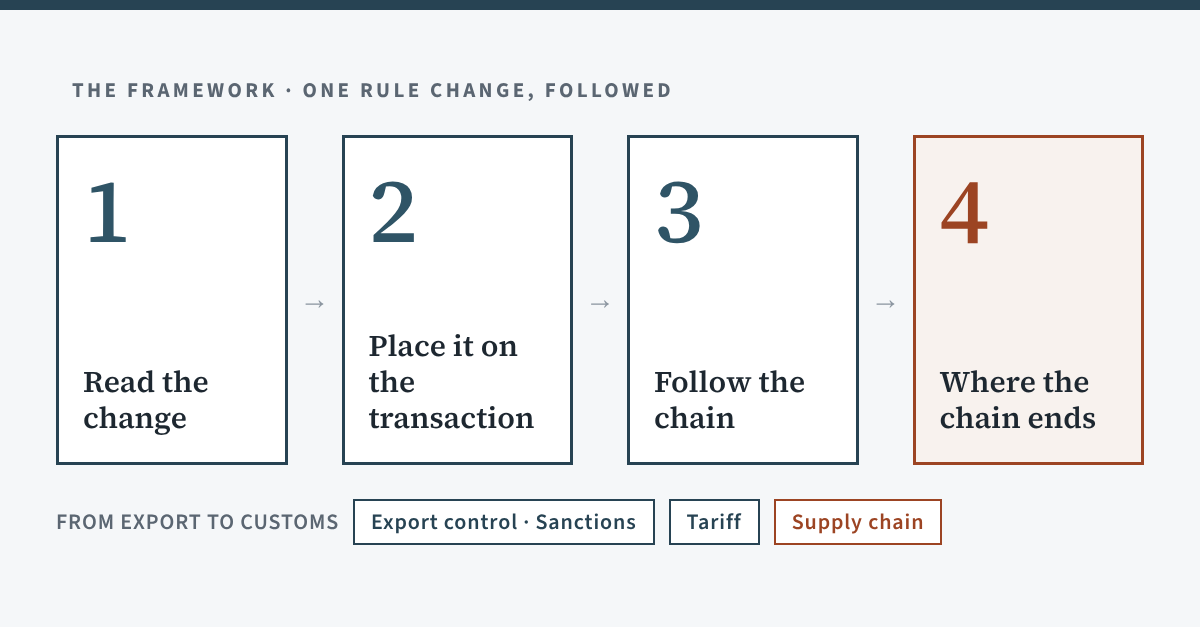
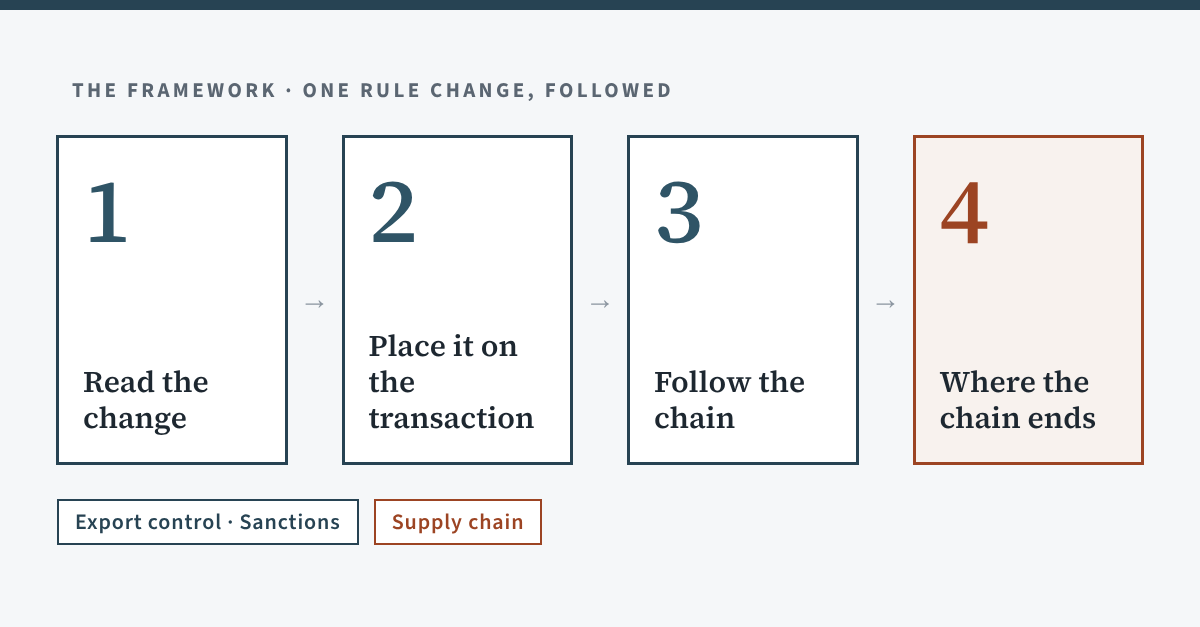
Add files via upload

Changed region(s): [[0.0308, 0.7879, 0.7708, 0.8788]]

diff --git a/review/index.html b/review/index.html
@@ -12,7 +12,7 @@ description: "The US Affiliates Rule, followed through one export route from Kor
   <div class="chero__shell">
     <p class="chero__id">US AFFILIATES RULE &middot; ONE EXPORT ROUTE</p>
     <h1 class="chero__title">The US Affiliates Rule on One Export Route: A Review</h1>
-    <p class="chero__subject">The US Affiliates Rule reaches recipients through who owns them. Its stay ends on 10 November 2026 in law; an extension to 10 January 2027 has been announced but not published. Here it is followed through one export route from Korea under both dates, from export to customs, to where it reaches the supply chain.</p>
+    <p class="chero__subject">The US Affiliates Rule reaches recipients through who owns them. Its stay ends on 10 November 2026 in law; an extension to 10 January 2027 has been announced but not published. Here it is followed through one export route from Korea under both dates, leg by leg, to where it reaches the supply chain.</p>
 
     <div class="ctrace">
       <span class="ctrace__cap">THE ROUTE IN THIS REVIEW</span>
@@ -38,7 +38,7 @@ description: "The US Affiliates Rule, followed through one export route from Kor
       <tbody>
         <tr><td>Rule</td><td>Expanded: an existing set of listings reaches further. Interim final rule.</td></tr>
         <tr><td>Whose rule</td><td>A country whose rule follows the item: the US. Added by the US alone, not agreed in a regime.</td></tr>
-        <tr><td>Status and dates</td><td>Adopted and stayed. <b>Fixed in law:</b> the stay ends on 9 November 2026 and the rule returns on 10 November 2026. <b>Announced:</b> on 23 September 2026 the US and China agreed to extend the Busan arrangement to 10 January 2027, expected to carry the stay with it. No Federal Register notice of the extension found as of 1 October 2026. No transition licence.</td></tr>
+        <tr><td>Status and dates</td><td>Adopted and stayed. <b>Fixed in law:</b> the stay ends on 9 November 2026 and the rule returns on 10 November 2026. <b>Announced:</b> on 23 September 2026 the US and China agreed to extend the Busan arrangement to 10 January 2027, expected to carry the stay with it. No Federal Register notice of the extension found as of 1 October 2026.</td></tr>
       </tbody>
     </table>
 
@@ -69,17 +69,17 @@ description: "The US Affiliates Rule, followed through one export route from Kor
       <tbody>
         <tr><td>Item</td><td>A part made for semiconductor manufacturing equipment, made in Korea. US-origin content is above the de minimis level, so the part is subject to the EAR.</td></tr>
         <tr><td>Parties</td><td>A Korean exporter. Company A is on the Entity List, needs a licence for all items subject to the EAR, and has a presumption of denial; it owns 35% of C. Company B is on the Entity List, needs a licence for items on the CCL, and is reviewed case by case; it owns 15% of C. C owns 50% of D. Neither C nor D is listed. <b>What can move:</b> a stake in C or D, or the listing of A, B or another shareholder.</td></tr>
-        <tr><td>Route and channel</td><td>Leg 1: Korea to Country X, to C as distributor. Leg 2: Country X to Country Y, to D as end user. Goods only; no technology moves. FCA Korea: the buyer bears import duty.</td></tr>
+        <tr><td>Route and channel</td><td>Leg 1: Korea to Country X, to C as distributor. Leg 2: Country X to Country Y, to D as end user. Goods only; no technology moves.</td></tr>
         <tr><td>Timing</td><td>Order placed in October 2026. Shipment planned for December 2026. Payment due in February 2027. Read under two dates: 10 November 2026 (fixed in law) and 10 January 2027 (announced).</td></tr>
       </tbody>
     </table>
 
     <p class="csub">Where it lands</p>
     <table class="cgap">
-      <thead><tr><th>Leg</th><th>Export</th><th>Customs</th></tr></thead>
+      <thead><tr><th>Leg</th><th>Point</th><th>Where the line lands</th></tr></thead>
       <tbody>
-        <tr><td>Leg 1: Korea to X</td><td><b>Lands here.</b> C is inside: A and B together own 50%. The exporter knows D is the end user, so D is read here too.</td><td></td></tr>
-        <tr><td>Leg 2: X to Y</td><td><b>Lands here,</b> read by C as reexporter. D is inside: C owns 50%.</td><td></td></tr>
+        <tr><td>Leg 1: Korea to X</td><td>Export, read by the Korean exporter</td><td><b>Lands here.</b> C is inside: A and B together own 50%. The exporter knows D is the end user, so D is read here too.</td></tr>
+        <tr><td>Leg 2: X to Y</td><td>Reexport, read by C</td><td><b>Lands here.</b> D is inside: C owns 50%.</td></tr>
       </tbody>
     </table>
 
@@ -108,7 +108,6 @@ description: "The US Affiliates Rule, followed through one export route from Kor
       <tbody>
         <tr><td>OFAC sanctions, 50% rule</td><td>US</td><td>Same fact, two lists: the same A, B, C, D chain, read against the SDN List. Assumed: no party is designated.</td></tr>
         <tr><td>Strategic items control (Foreign Trade Act, Art. 19)</td><td>Korea</td><td>Cumulative: a Korean licence does not clear BIS, and a BIS licence does not clear Korea. Korea has no ownership test of its own, so for C and D the relation is none.</td></tr>
-        <tr><td>Tariff, HS 8486.90</td><td>Countries X and Y</td><td>Customs. Not touched by this change, and read only if the part leaves. Duty free where X and Y apply the ITA; otherwise the importing country&rsquo;s schedule. Origin: Korea.</td></tr>
       </tbody>
     </table>
 
@@ -126,7 +125,7 @@ description: "The US Affiliates Rule, followed through one export route from Kor
       <tbody>
         <tr><td>Back to the contract</td><td>The order was taken in October 2026, before either date. Assumed: no clause lets the exporter suspend for a new licence requirement, so the risk of delay sits with the exporter.</td></tr>
         <tr><td>Payment</td><td>Due in February 2027, after both dates. A bank can stop it on its own screening, and ownership is read again at that point.</td></tr>
-        <tr><td>Forward to customs</td><td>If the part cannot leave, no customs step is reached; the chain stops at export.</td></tr>
+        <tr><td>Forward to the next leg</td><td>If the part cannot leave Korea, Leg 2 never happens; the chain stops at the first export.</td></tr>
       </tbody>
     </table>
   </div>
@@ -144,10 +143,9 @@ description: "The US Affiliates Rule, followed through one export route from Kor
         <tr><td>Date exposure</td><td><b>Plan on 10 November:</b> the December shipment is held now; if the extension is published, two months of sales were held for nothing. <b>Plan on 10 January:</b> if no notice is published, the December shipment leaves without a required licence. The fixed date is the safer plan; the wrong guess costs sales on one side and a violation on the other.</td><td>Time &middot; Foregone</td></tr>
         <tr><td>Response</td><td>Ship before 10 November, while the stay holds: lawful, but it moves the timing in Step 2 and should be recorded. Ship to D through another consignee: D is still a party, and it starts to look like circumvention.</td><td>Labour &middot; Time</td></tr>
         <tr><td>Counterparties</td><td>C, D, and every entity either owns 50% or more. A substitute customer meets the same ownership test.</td><td>Foregone &middot; Time</td></tr>
-        <tr><td>Cost</td><td>No duty change.</td><td>Cost: none</td></tr>
       </tbody>
     </table>
-    <div class="cbody"><p>Under either date the payment falls inside, so the uncertainty decides how much waits and for how long, not whether the deal is caught. If D is a core customer, every open order to D waits, and the chain ends in lost sales rather than in duty.</p></div>
+    <div class="cbody"><p>Under either date the payment falls inside, so the uncertainty decides how much waits and for how long, not whether the deal is caught. If D is a core customer, every open order to D waits, and the chain ends in lost sales.</p></div>
   </div>
 </section>
 
@@ -157,7 +155,7 @@ description: "The US Affiliates Rule, followed through one export route from Kor
       <tbody>
         <tr>
           <th>Sources</th>
-          <td>US BIS Affiliates Rule IFR (RIN 0694-AK11; Federal Register 2025-19001), Application example 1: Supp. No. 4 to Part 744, introductory text; &sect;&sect; 744.11, 744.21; &sect; 748.5; Red Flag 29, Supp. No. 3 to Part 732. BIS, one-year suspension of the Affiliates Rule (Federal Register 2025-19846), stayed until 9 November 2026. US Treasury announcement, 23 September 2026, extending the Busan arrangement to 10 January 2027 (reported by Reuters). &nbsp;OFAC, Revised Guidance on Entity Property and Interests (50 percent rule). &nbsp;Korea, Foreign Trade Act, Article 19 (strategic items; Article 19(3) catch-all), and the Public Notice on Export and Import of Strategic Items. &nbsp;Harmonized System, heading 84.86. &nbsp;WTO Information Technology Agreement.</td>
+          <td>US BIS Affiliates Rule IFR (RIN 0694-AK11; Federal Register 2025-19001), Application example 1: Supp. No. 4 to Part 744, introductory text; &sect;&sect; 744.11, 744.21; &sect; 748.5; Red Flag 29, Supp. No. 3 to Part 732. BIS, one-year suspension of the Affiliates Rule (Federal Register 2025-19846), stayed until 9 November 2026. US Treasury announcement, 23 September 2026, extending the Busan arrangement to 10 January 2027 (reported by Reuters). &nbsp;OFAC, Revised Guidance on Entity Property and Interests (50 percent rule). &nbsp;Korea, Foreign Trade Act, Article 19 (strategic items; Article 19(3) catch-all), and the Public Notice on Export and Import of Strategic Items.</td>
         </tr>
       </tbody>
     </table>

diff --git a/index.html b/index.html
@@ -1,7 +1,7 @@
 ---
 layout: default
 title: "Where the Rules Meet: A Compliance Impact Framework"
-description: "A rule changes, or the date it applies moves. Follow it through one transaction, from export to customs, to where it reaches the supply chain."
+description: "A rule changes, or the date it applies moves. Follow it through one transaction, leg by leg, to where it reaches the supply chain."
 permalink: /
 ---
 
@@ -11,8 +11,7 @@ permalink: /
     <div class="cov-block cov-lede">
       <span class="cov-eyebrow">THE FRAMEWORK</span>
       <h1 class="cov-title">Where the Rules Meet: A Compliance Impact Framework</h1>
-      <p class="cov-standfirst">A rule changes, or the date it applies moves. Follow it through one transaction, from export to customs, to where it reaches the supply chain.</p>
-      <p class="cov-standfirst">Reads export controls and sanctions at export, the tariff basics at customs, and the supply chain on both sides of the firm. Not covered: duty calculation, valuation, customs procedures, import-country regulation, or how a firm runs its compliance programme.</p>
+      <p class="cov-standfirst">A rule changes, or the date it applies moves. Follow it through one transaction, leg by leg, to where it reaches the supply chain.</p>
       <p class="cov-standfirst"><a href="{{ '/review/' | relative_url }}">See a review: the US Affiliates Rule on one export route, with the date still moving &rarr;</a></p>
     </div>
 
@@ -35,15 +34,15 @@ permalink: /
       <div class="cov-mech__item">
         <p class="cov-mech__num">STEP 3</p>
         <p class="cov-mech__name">Follow the chain</p>
-        <p class="cov-mech__note">What it meets at export and at customs, and how the rules relate.</p>
+        <p class="cov-mech__note">Which export controls and sanctions it meets, and how they relate.</p>
         <p class="cov-mech__shape">what is read &middot; rules met &middot; just outside &middot; relation &middot; timeline</p>
       </div>
 
       <div class="cov-mech__item cov-mech__item--soft">
         <p class="cov-mech__num">STEP 4</p>
         <p class="cov-mech__name">Where the chain ends</p>
-        <p class="cov-mech__note">The supply chain: what waits, what is lost, what it costs, and what the response changes.</p>
-        <p class="cov-mech__shape">time &middot; labour &middot; foregone &middot; cost &middot; response &rarr; Step 2</p>
+        <p class="cov-mech__note">The supply chain: what waits, what is lost, and what the response changes.</p>
+        <p class="cov-mech__shape">time &middot; labour &middot; foregone &middot; response &rarr; Step 2</p>
       </div>
 
     </div>
@@ -78,7 +77,6 @@ permalink: /
         <tr><td>Licence terms</td><td>Is a licence required, under what review policy, and which licence exceptions remain?</td></tr>
       </tbody>
     </table>
-    <div class="cbody"><p>Mark a boundary unchanged where it did not move. What stayed still shows what changed.</p></div>
   </div>
 </section>
 
@@ -100,13 +98,14 @@ permalink: /
 
     <p class="csub">Where it lands</p>
     <table class="cgap">
-      <thead><tr><th>Point</th><th>What is read</th><th>Read by</th></tr></thead>
+      <thead><tr><th>Point</th><th>Where on the route</th><th>Read by</th></tr></thead>
       <tbody>
-        <tr><td>Export: screening, licence, release</td><td>Export controls and sanctions: the item, the destination, the parties, the end use</td><td>The exporter, or the reexporter on a later leg</td></tr>
-        <tr><td>Customs</td><td>The tariff: HS code and origin</td><td>The importer</td></tr>
+        <tr><td>Export</td><td>The item leaves the exporter&rsquo;s country</td><td>The exporter</td></tr>
+        <tr><td>Reexport</td><td>The item moves on from one foreign country to another</td><td>The reexporter</td></tr>
+        <tr><td>Transfer</td><td>The end user or end use changes within one country</td><td>The transferor</td></tr>
+        <tr><td>Release</td><td>Technology is shown, sent or explained to a person</td><td>The provider</td></tr>
       </tbody>
     </table>
-    <div class="cbody"><p>For each leg of the route, mark the point where the new line lands. A point the rule does not reach stays blank. Technology that moves without crossing customs leaves Customs blank.</p></div>
 
     <p class="csub">Position</p>
     <table class="cgap">
@@ -129,21 +128,18 @@ permalink: /
     <p class="ceyebrow">3 &middot; Follow the chain</p>
     <p class="cbasis"><b>Rests on</b> the text of the other rules and on Steps 1 and 2.</p>
 
-    <p class="csub">What is read at each point</p>
+    <p class="csub">What each rule reads</p>
     <table class="cgap">
-      <thead><tr><th>Point</th><th>Type</th><th>Reads</th></tr></thead>
+      <thead><tr><th>Rule</th><th>Type</th><th>Reads</th></tr></thead>
       <tbody>
-        <tr><td rowspan="4">Export: export control</td><td>Item</td><td>The item's specification</td></tr>
+        <tr><td rowspan="4">Export control</td><td>Item</td><td>The item's specification</td></tr>
         <tr><td>Destination</td><td>The country it goes to</td></tr>
         <tr><td>Party</td><td>Who the party is, and who owns it</td></tr>
         <tr><td>End use</td><td>What it will be used for</td></tr>
-        <tr><td rowspan="4">Export: sanctions</td><td>Comprehensive</td><td>A whole country or region</td></tr>
+        <tr><td rowspan="4">Sanctions</td><td>Comprehensive</td><td>A whole country or region</td></tr>
         <tr><td>List-based</td><td>Named parties, and the entities they own</td></tr>
         <tr><td>Sectoral</td><td>A sector or a kind of dealing</td></tr>
         <tr><td>Secondary</td><td>A third-country firm dealing with a target</td></tr>
-        <tr><td rowspan="3">Customs: tariff</td><td>Standard (MFN)</td><td>The HS code</td></tr>
-        <tr><td>Preferential (FTA)</td><td>The HS code and proof of origin</td></tr>
-        <tr><td>Additional</td><td>A country or a product: trade remedies, security or retaliatory duties</td></tr>
       </tbody>
     </table>
 
@@ -164,7 +160,7 @@ permalink: /
         <tr><td>Same fact, two lists</td><td>One fact, two tests; answers can differ</td></tr>
         <tr><td>Handoff</td><td>One rule creates the condition for the other</td></tr>
         <tr><td>Conflict</td><td>Complying with one breaches the other</td></tr>
-        <tr><td>Incentive</td><td>One rule gives a reason to change the route or origin that another rule reads</td></tr>
+        <tr><td>Incentive</td><td>One rule gives a reason to change the route, the item or the parties that another rule reads</td></tr>
       </tbody>
     </table>
     <div class="cbody"><p>A rule added by one country may have no counterpart elsewhere. Record the relation as none; that is a result too.</p></div>
@@ -175,7 +171,7 @@ permalink: /
       <tbody>
         <tr><td>Back to the contract</td><td>What was agreed before the rule applies, and which terms put the risk on whom?</td></tr>
         <tr><td>Payment</td><td>Can a bank stop payment on its own screening, and has a party's status or ownership changed by the time payment is due?</td></tr>
-        <tr><td>Forward to customs</td><td>Does the next point still arrive, and on what terms?</td></tr>
+        <tr><td>Forward to the next leg</td><td>Does the next leg still happen, and on what terms?</td></tr>
       </tbody>
     </table>
   </div>
@@ -194,10 +190,8 @@ permalink: /
         <tr><td>Date exposure</td><td>What is in progress when it takes effect? If the date is not settled, which date does the firm plan on, and what does a wrong guess cost?</td><td>Time &middot; Foregone</td></tr>
         <tr><td>Response</td><td>Does a change of route, supplier, design or deal structure meet another rule, or start to look like circumvention?</td><td>Labour &middot; Time</td></tr>
         <tr><td>Counterparties</td><td>Which customers and suppliers can the firm no longer deal with, including through another country's counter-measure, and does a substitute pass the same test?</td><td>Foregone &middot; Time</td></tr>
-        <tr><td>Cost</td><td>Who bears a new duty under the agreed terms?</td><td>Cost</td></tr>
       </tbody>
     </table>
-    <div class="cbody"><p>Time is waiting. Labour is work added to each transaction. Foregone is sales, markets and relationships lost. Cost is duty borne or passed back. Position in the supply chain decides how far each spreads.</p><p>A response changes the route, the supplier, the item or the parties. Read the changed transaction again from Step 2.</p></div>
   </div>
 </section>
 
@@ -208,7 +202,6 @@ permalink: /
         <tr>
           <th>Sources</th>
           <td>
-            Each step rests on the text of the rules it reads. Some categories and wording are taken from the guidance below.<br><br>
             European Union, <a href="https://eur-lex.europa.eu/legal-content/EN/TXT/?uri=CELEX:32021R0821" target="_blank" rel="noopener">Regulation (EU) 2021/821</a> (Article 2 definitions; Article 4 catch-all; Article 6 brokering; Article 8 technical assistance).<br>
             BIS, <a href="https://www.bis.gov/articles/know-your-customer-guidance" target="_blank" rel="noopener">Know Your Customer Guidance</a> and <a href="https://www.bis.gov/title-15/subtitle-b/chapter-vii/subchapter-c/part-732" target="_blank" rel="noopener">Red Flags, Supplement No. 3 to Part 732</a>.<br>
             BIS, <a href="https://www.bis.gov/sites/default/files/documents/ECP_0.pdf" target="_blank" rel="noopener">Export Compliance Guidelines: The Elements of an Effective Export Compliance Program</a>.<br>
